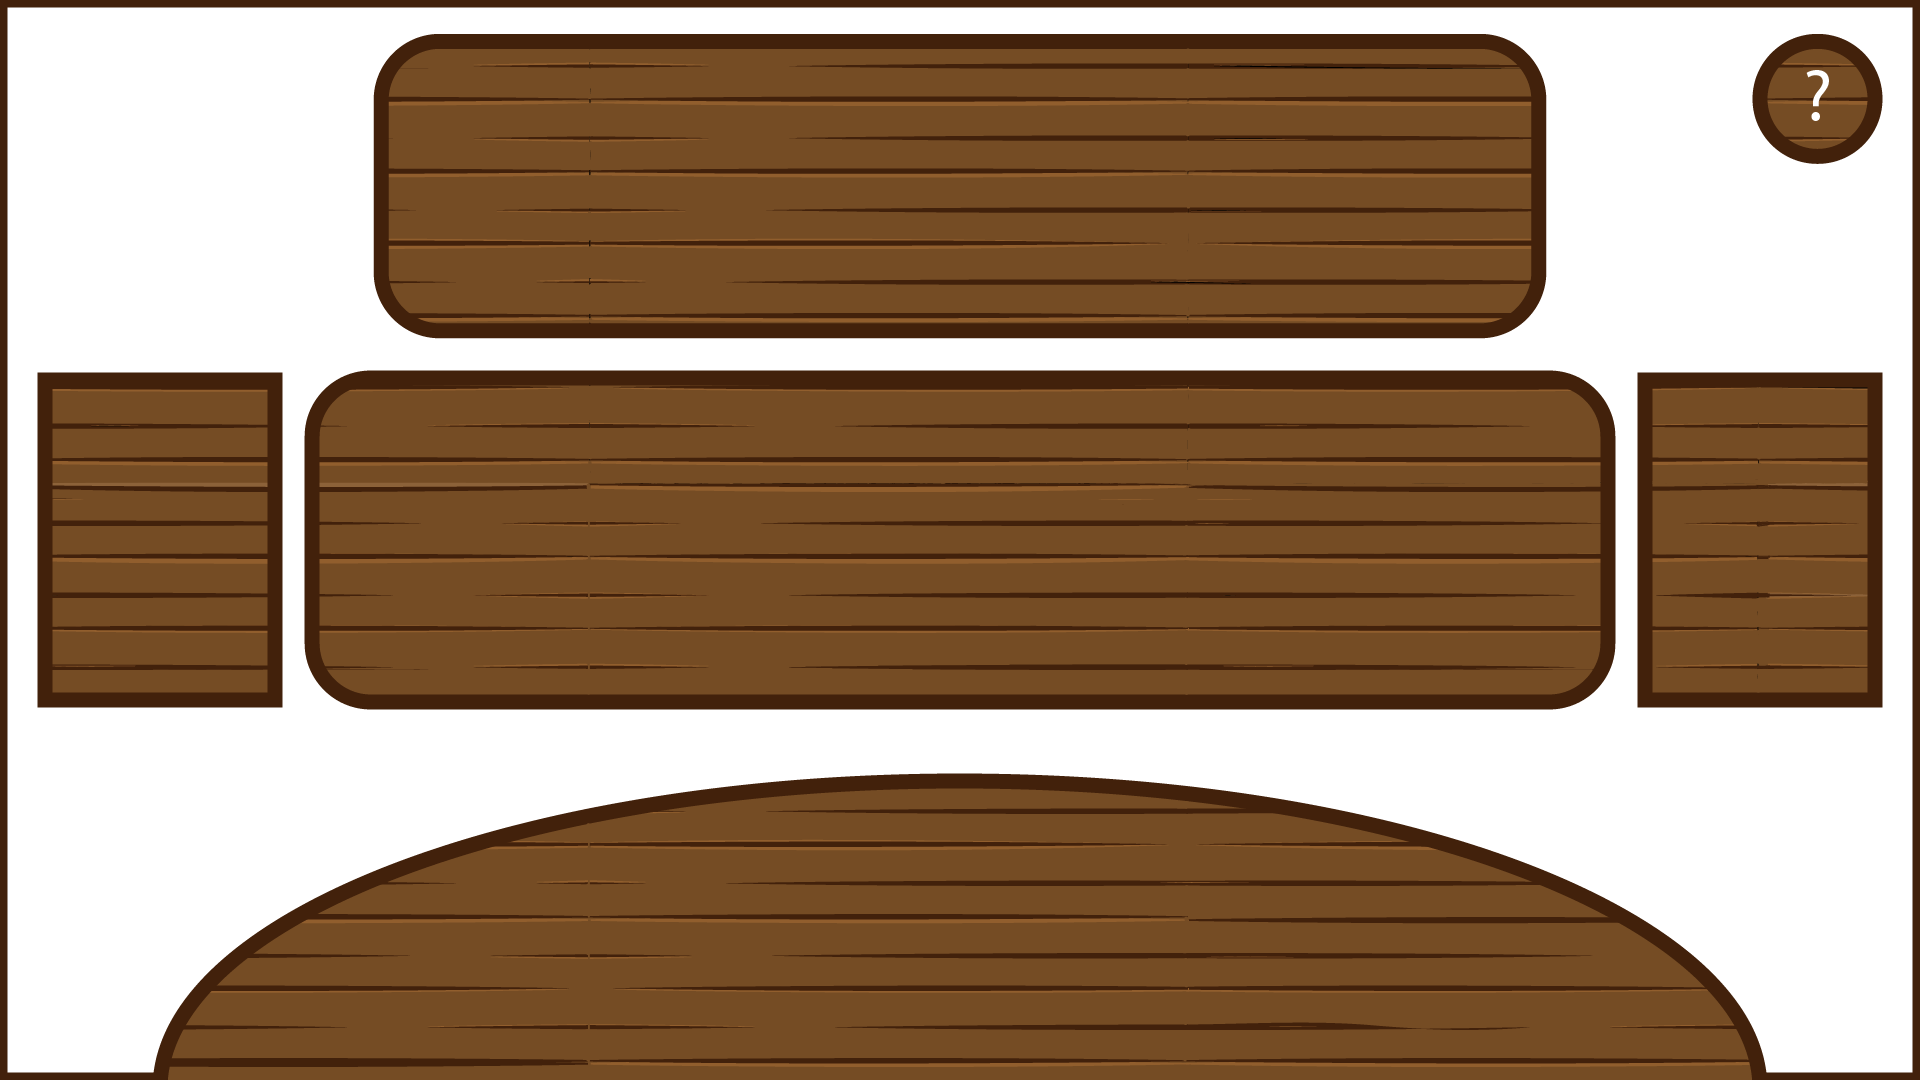
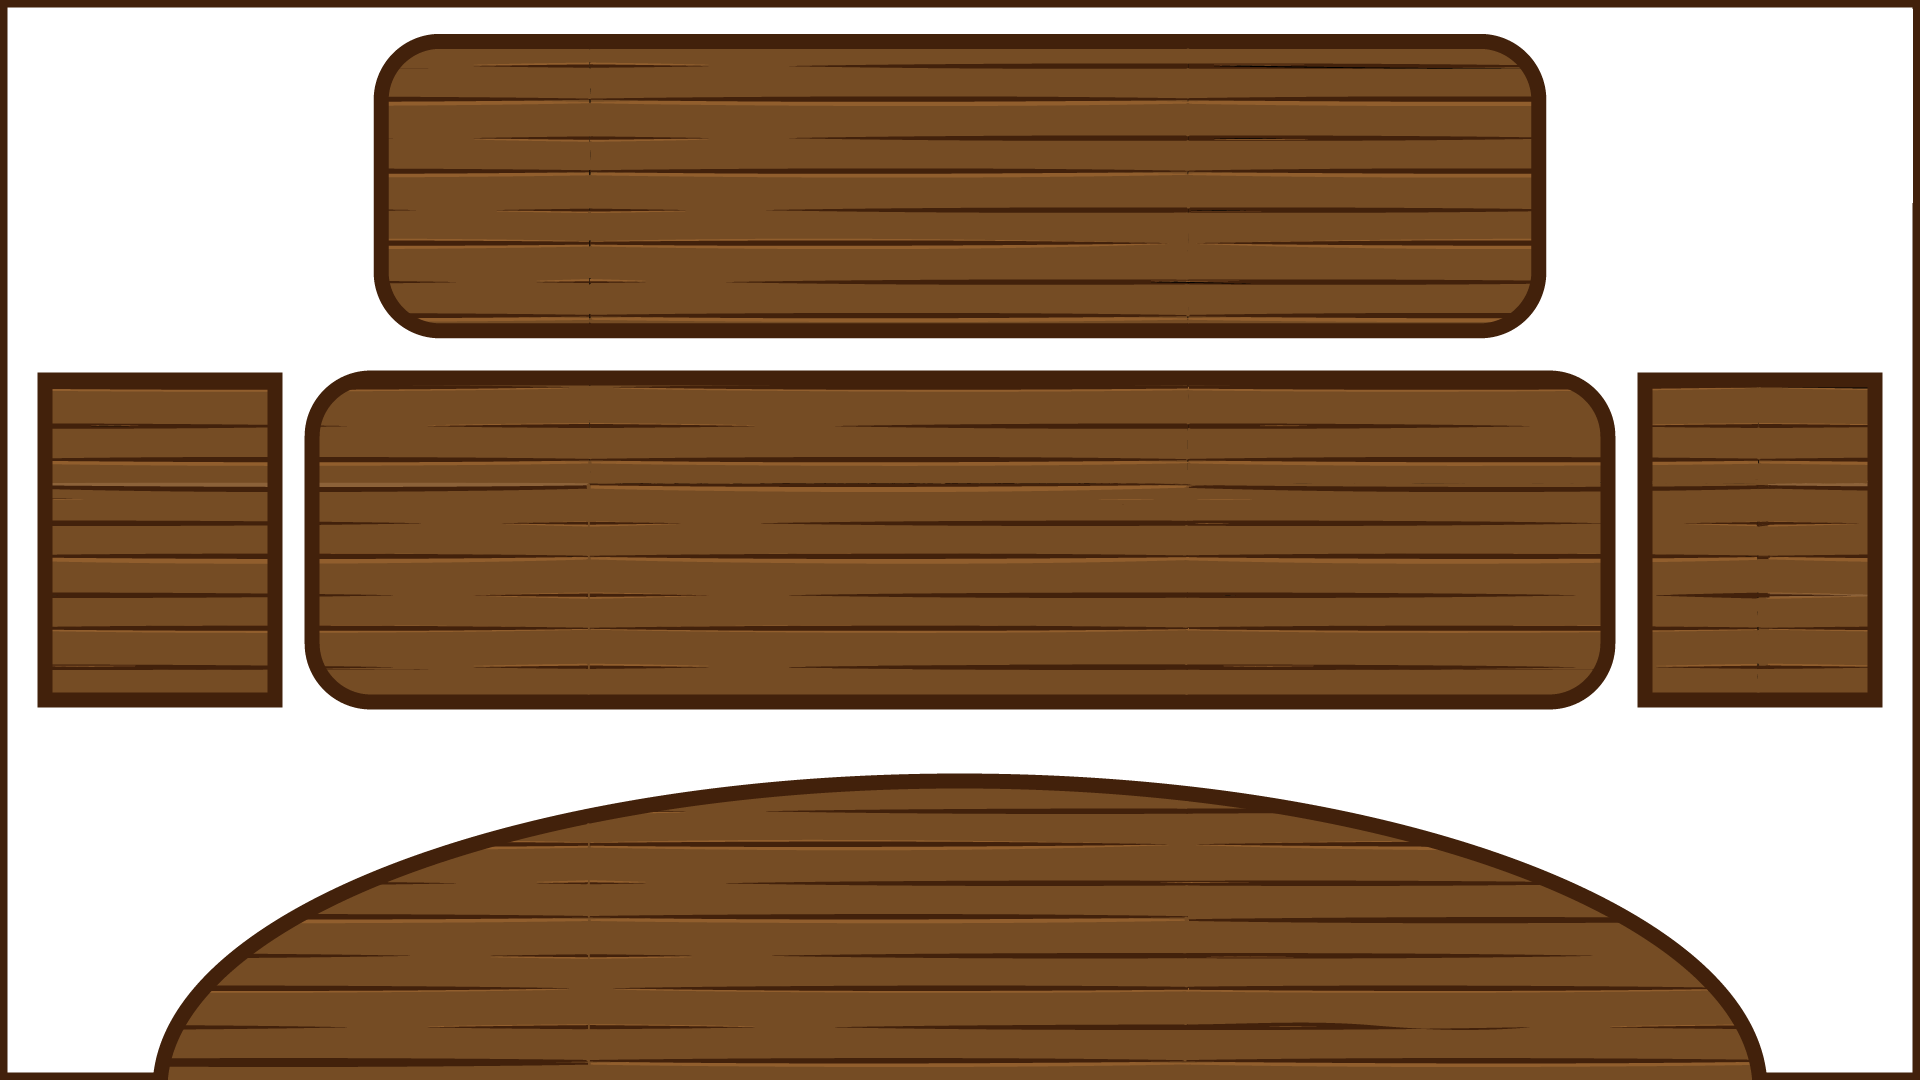
added some UI & removed unused assets

Changed region(s): [[0.9062, 0.0306, 1.0, 0.1528]]

diff --git a/js/play.js b/js/play.js
@@ -22,14 +22,32 @@ var playState = {
             playState.endTurn();
         });
         endTurnButton.scale.set(1.5,1.5);
+        // return to main menu button
         var returnButton = game.add.button(25, 25, 'return-button', function(){
-            game.state.start('menu');
+            if(!playState.isInputEnabled()){return;}
+            else {
+                playState.state.start('menu');
+            }   
+        });
+        // quick guide button
+        var guideButton = game.add.button(1700, 25, 'guide-button', function() {
+            if(!playState.isInputEnabled()){return;}
+            playState.allowInput(false);
+            actionGuide = game.add.sprite(game.world.centerX, game.world.centerY, 'action-guide');
+            actionGuide.anchor.set(0.5,0.5);
+            var closeButton = game.add.button(game.world.centerX, 900, 'close-button', function() {
+                actionGuide.destroy();
+                closeButton.destroy();
+                playState.allowInput(true)
+            });
+            closeButton.anchor.set(0.5,0.5);
         });
         //Draw pile
         var drawPileButton = game.add.button(1760, 540, 'card-back', function(){
             if(playState.blockInput){
                 return;
             }
+            if(!playState.isInputEnabled()){return;}
             playState.drawCard(playState.playerTurn);
         });
         drawPileButton.width = cardWidth;
@@ -178,6 +196,7 @@ var playState = {
     },
 
     cardClick: function(sprite, pointer){
+        if(!playState.isInputEnabled()){return;}
         let actions = this.checkActions();
         if(!actions) {
             console.log('no more actions left')
@@ -605,5 +624,4 @@ var cardFunctions = {
 		}
 		return Number(x);
 	}
-
 }

diff --git a/js/load.js b/js/load.js
@@ -14,6 +14,9 @@ var loadState = {
 		game.load.image('endturn-button', 'assets/endturn-button.png');
 		game.load.image('restart-button', 'assets/restart-button.png');
 		game.load.image('return-button', 'assets/return-button.png');
+		game.load.image('guide-button', 'assets/guide-button.png');
+		game.load.image('action-guide', 'assets/action-guide.png');
+		game.load.image('close-button', 'assets/close-button.png');
 		game.load.image('wieken', 'assets/wieken.png');
 		game.load.image('points-area', 'assets/pointsArea.png');
 		game.load.image('menu-container', 'assets/menu-container.png');

diff --git a/server.js b/server.js
@@ -5,6 +5,7 @@ var io = require('socket.io').listen(server);
 
 app.use('/js', express.static(__dirname + '/js'));
 app.use('/assets', express.static(__dirname + '/assets'));
+app.use('/css', express.static(__dirname + '/css'));
 app.get('/', function(req, res){
 	res.sendfile(__dirname + '/index.html');
 })
